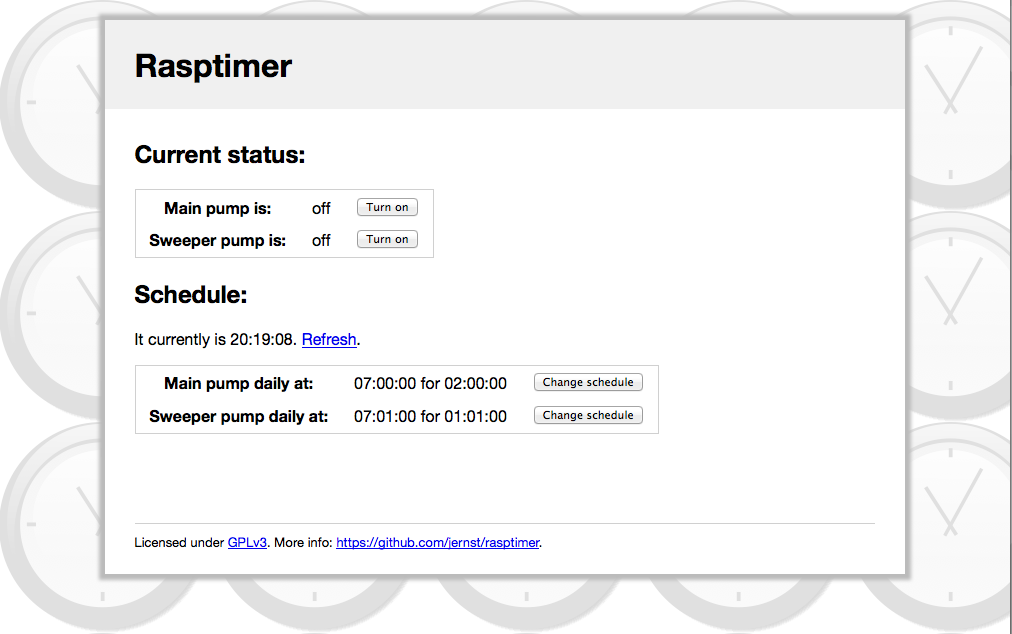
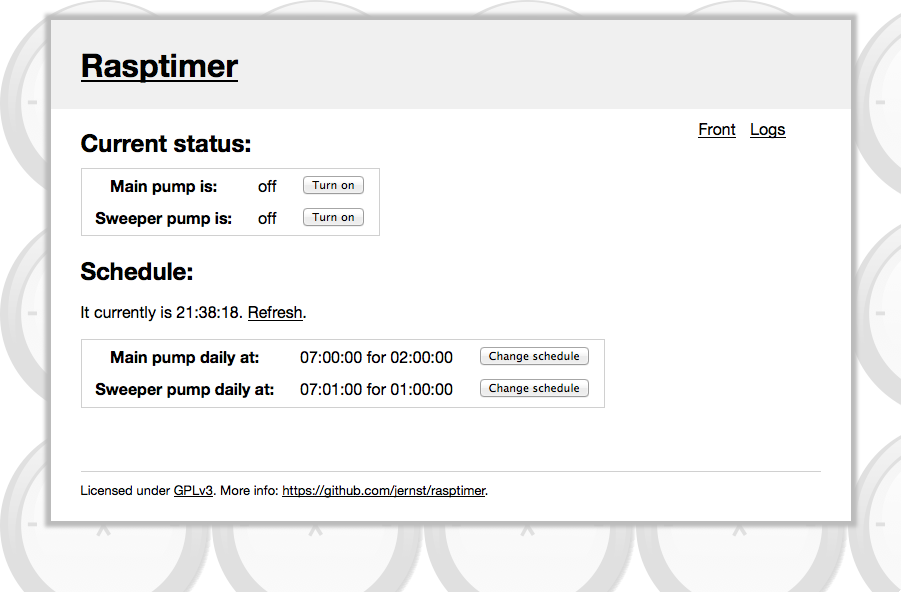
Updated screenshots and README

Changed region(s): [[0.0, 0.0, 1.0, 1.0], [0.7769, 0.0, 0.808, 0.0304]]

diff --git a/README.md b/README.md
@@ -22,6 +22,8 @@ Installation:
     sudo make install
     cd /var/www
     sudo git clone https://github.com/jernst/rasptimer.git
+    touch /var/log/rasptimer.log
+    chown www-data /var/log/rasptimer.log
 
 then enter your Raspberry Pi input/output configuration by editing
     vi rasptimer/config.php
